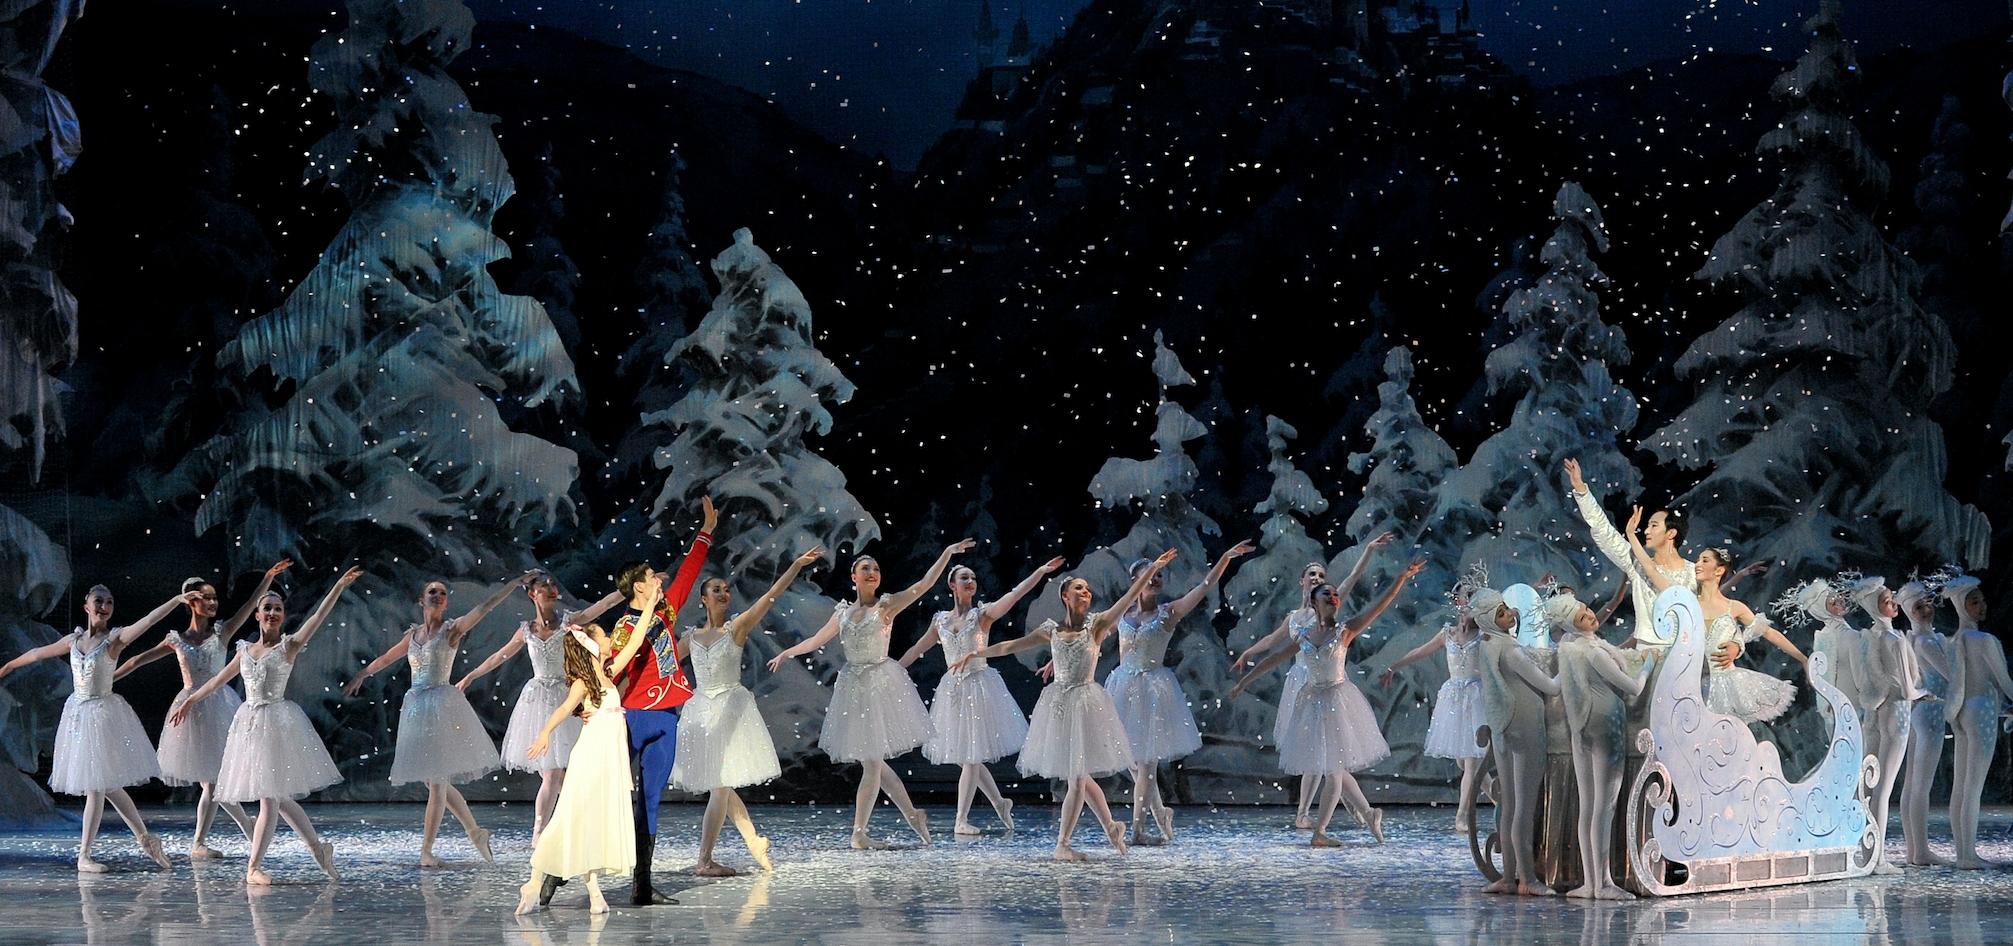
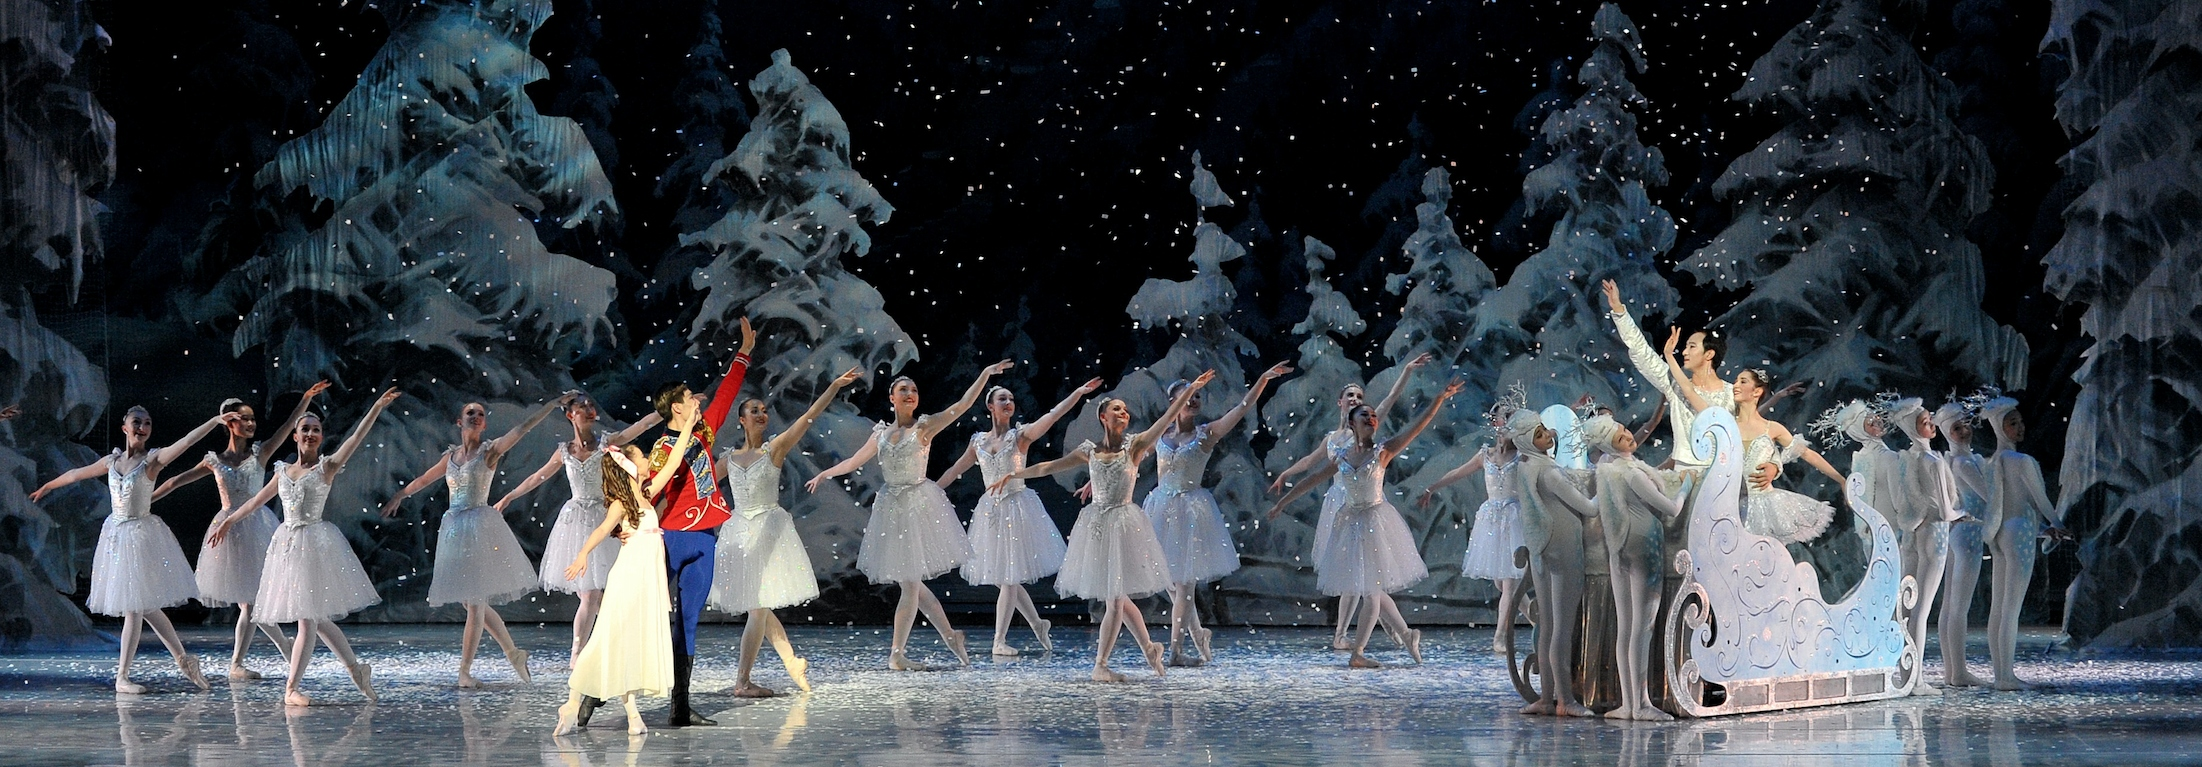
Editing dogadaji

diff --git a/gatsby-project/src/pages/index.js b/gatsby-project/src/pages/index.js
@@ -16,41 +16,35 @@ import NaslovnicaStyle from "../styles/index.module.css"
 const NaslovnicaPage = props => {
   const items = [
     {
-      src: props.data.carousel1.childImageSharp.fluid,
-      altText: "Prljavo kazalište",
-      caption: "Prljavo kazalište",
-      captionText: "Kultura",
-    },
-
-    {
       src: props.data.carousel2.childImageSharp.fluid,
       altText: "Kralj lavova",
       caption: "Kralj lavova",
-      captionText: "Film",
+      captionText: "Cinestar Rijeka 5. 2. 2020.",
     },
+    {
+      src: props.data.carousel1.childImageSharp.fluid,
+      altText: "Parni valjak",
+      caption: "Parni valjak",
+      captionText: "Pulska arena 17.01.2020.",
+    },
+
     {
       src: props.data.carousel3.childImageSharp.fluid,
       altText: "Hrvatska-Engleska",
       caption: "Hrvatska-Engleska",
-      captionText: "Sport",
+      captionText: "Poljud Split 17. 3. 2020.",
     },
     {
       src: props.data.carousel4.childImageSharp.fluid,
       altText: "Ero s onoga svijeta",
       caption: "Ero s onoga svijeta",
-      captionText: "Kultura",
+      captionText: "HNK Osijek 15. 2. 2020.",
     },
-    // {
-    //   src: props.data.carousel5.childImageSharp.fluid,
-    //   altText: "Bilo jednom u Hollywoodu",
-    //   caption: "Bilo jednom u Hollywoodu",
-    //   captionText: "Film",
-    // },
     {
-      src: props.data.carousel6.childImageSharp.fluid,
+      src: props.data.carousel5.childImageSharp.fluid,
       altText: "Orašar",
       caption: "Orašar",
-      captionText: "Kultura",
+      captionText: "HNK Rijeka 2. 2. 2020.",
     },
   ]
 
@@ -192,7 +186,7 @@ const NaslovnicaPage = props => {
                 Film
               </h4>
               <p className={NaslovnicaStyle.categoryDescription}>
-                Za sve filmoljupce, pogledajte našu ponudu najnovijih filmova
+                Za sve filmoljupce, pogledajte našu ponudu najnovijih filmova.
               </p>
               <Button
                 className={NaslovnicaStyle.categoryButton}
@@ -216,42 +210,35 @@ export const query = graphql`
   query {
     carousel1: file(relativePath: { eq: "carouselParniValjak.jpg" }) {
       childImageSharp {
-        fluid(maxWidth: 1200, maxHeight: 564) {
+        fluid(maxWidth: 1200, maxHeight: 418) {
           ...GatsbyImageSharpFluid_tracedSVG
         }
       }
     }
     carousel2: file(relativePath: { eq: "carouselKraljLavova.jpg" }) {
       childImageSharp {
-        fluid(maxWidth: 1281, maxHeight: 603) {
+        fluid(maxWidth: 1600, maxHeight: 557) {
           ...GatsbyImageSharpFluid_tracedSVG
         }
       }
     }
     carousel3: file(relativePath: { eq: "carouselFootball.jpg" }) {
       childImageSharp {
-        fluid(maxWidth: 1004, maxHeight: 472) {
+        fluid(maxWidth: 1922, maxHeight: 670) {
           ...GatsbyImageSharpFluid_tracedSVG
         }
       }
     }
     carousel4: file(relativePath: { eq: "carouselEro.jpg" }) {
       childImageSharp {
-        fluid(maxWidth: 1386, maxHeight: 651) {
+        fluid(maxWidth: 1400, maxHeight: 500) {
           ...GatsbyImageSharpFluid_tracedSVG
         }
       }
     }
-    carousel5: file(relativePath: { eq: "once1.jpg" }) {
+    carousel5: file(relativePath: { eq: "carouselOrasar.jpg" }) {
       childImageSharp {
-        fluid(maxWidth: 2000, maxHeight: 470) {
-          ...GatsbyImageSharpFluid_tracedSVG
-        }
-      }
-    }
-    carousel6: file(relativePath: { eq: "carouselOrasar.jpg" }) {
-      childImageSharp {
-        fluid(maxWidth: 2013, maxHeight: 946) {
+        fluid(maxWidth: 2202, maxHeight: 767) {
           ...GatsbyImageSharpFluid_tracedSVG
         }
       }

diff --git a/gatsby-project/src/components/componentsStyles/header.module.css b/gatsby-project/src/components/componentsStyles/header.module.css
@@ -7,7 +7,9 @@
   background-color: var(--secondary-color);
   /* box-shadow: 0 0 20px 7px #e7f3f9; */
 
-  box-shadow: 0 0 20px 4px #eef6fa;
+  /* box-shadow: 0 0 20px 4px #eef6fa; ista boja kao header */
+
+  box-shadow: 0 0 10px 2px #92c5df;
   /* box-shadow: 0 0 50px 17px #e7f3f9; */
   /* background-color: #f1f0f6; */
   /* border-bottom: 1px solid #ced4da; */
@@ -35,8 +37,9 @@
   font-size: 2vw;
   /* letter-spacing: 1.1px; */
   color: var(--primary-color);
-  text-shadow: -1px 0 lightgrey, 0 1px lightgrey, 1px 0 lightgrey,
-    0 -1px lightgrey;
+  text-shadow: -0.2px 0 lightgrey, 0 0.2px lightgrey, 0.2px 0 lightgrey,
+    0 -0.2px lightgrey;
+  font-size: 2.25vw;
 }
 
 .navbarName {
@@ -75,6 +78,24 @@
   /* font-size: 0.93em; */
   /* margin-top: 1em; */
   /* text-align: center; */
+  /* background-color: var(--primary-color); */
+  color: var(--primary-color);
+  border-color: var(--primary-color);
+}
+
+.button:hover {
+  background-color: var(--primary-color);
+  border-color: var(--primary-color);
+  color: white;
+}
+
+.button:focus {
+  box-shadow: none;
+}
+
+.button .active {
+  color: var(--primary-color);
+  border-color: var(--primary-color);
 }
 
 .button2 ~ .btn-outline-info {
@@ -93,7 +114,8 @@
 .navbarName__active {
   /* text-decoration: underline; */
   color: var(--primary-color);
-  font-weight: 700;
+  font-weight: 600;
+  /* text-shadow: -1px 0 #c7e1ee, 0 1px #c7e1ed, 1px 0 #c7e1ee, 0 -1px #c7e1ee; */
 }
 
 .navbarName:hover {

diff --git a/gatsby-project/src/styles/dogadaji.module.css b/gatsby-project/src/styles/dogadaji.module.css
@@ -73,7 +73,9 @@
 .card {
   background-color: var(--secondary-color);
   border-radius: 4px;
-  box-shadow: 0px 2px 15px 2px rgba(0, 0, 0, 0.08); /*promijeniti*/
+  /* box-shadow: 0px 2px 15px 2px rgba(0, 0, 0, 0.08); promijeniti */
+  box-shadow: 0px 2px 15px 2px rgba(0, 0, 0, 0.16);
+
   display: flex;
   flex-direction: column;
   height: 367px;
@@ -86,14 +88,16 @@
 }
 
 .card:hover {
-  box-shadow: 0px 2px 15px 2px rgba(0, 0, 0, 0.25);
+  box-shadow: 0px 2px 15px 2px rgba(0, 0, 0, 0.32);
   transition: all 0.3s;
 }
 
 .cardImage {
   border-radius: 4px;
-  box-shadow: 0 2px 4px 0 rgba(0, 0, 0, 0.04),
-    0 2px 20px 0 rgba(13, 34, 30, 0.25); /*promijeniti*/
+  /* box-shadow: 0 2px 4px 0 rgba(0, 0, 0, 0.04),
+    0 2px 20px 0 rgba(13, 34, 30, 0.25); promijeniti */
+  box-shadow: 0 2px 4px 0 rgba(0, 0, 0, 0.15),
+    0 2px 20px 0 rgba(13, 34, 30, 0.3);
   display: block; /*ovo*/
   height: 180px;
   left: 50%;

diff --git a/gatsby-project/src/pages/dogadajFilm.js b/gatsby-project/src/pages/dogadajFilm.js
@@ -123,12 +123,12 @@ const DogadajiPage = props => {
                     </div>
                   </div>
                   <div className={DogadajiStyle.dateLocation}>
-                    <p className={DogadajiStyle.location}>Pulska arena</p>
-                    <p className={DogadajiStyle.date}>17.01.2020. u 20:00</p>
+                    <p className={DogadajiStyle.location}>{item.place}</p>
+                    <p className={DogadajiStyle.date}>{item.date}</p>
                   </div>
                 </div>
                 <div className={DogadajiStyle.priceButton}>
-                  <p className={DogadajiStyle.price}>80,00 kn</p>
+                  <p className={DogadajiStyle.price}>{item.price}</p>
                   <Button
                     className={DogadajiStyle.button}
                     outline

diff --git a/gatsby-project/src/pages/dogadajKultura.js b/gatsby-project/src/pages/dogadajKultura.js
@@ -123,12 +123,12 @@ const DogadajiPage = props => {
                     </div>
                   </div>
                   <div className={DogadajiStyle.dateLocation}>
-                    <p className={DogadajiStyle.location}>Pulska arena</p>
-                    <p className={DogadajiStyle.date}>17.01.2020. u 20:00</p>
+                    <p className={DogadajiStyle.location}>{item.place}</p>
+                    <p className={DogadajiStyle.date}>{item.date}</p>
                   </div>
                 </div>
                 <div className={DogadajiStyle.priceButton}>
-                  <p className={DogadajiStyle.price}>80,00 kn</p>
+                  <p className={DogadajiStyle.price}>{item.price}</p>
                   <Button
                     className={DogadajiStyle.button}
                     outline

diff --git a/gatsby-project/src/pages/dogadajSport.js b/gatsby-project/src/pages/dogadajSport.js
@@ -124,12 +124,12 @@ const DogadajiPage = props => {
                     </div>
                   </div>
                   <div className={DogadajiStyle.dateLocation}>
-                    <p className={DogadajiStyle.location}>Pulska arena</p>
-                    <p className={DogadajiStyle.date}>17.01.2020. u 20:00</p>
+                    <p className={DogadajiStyle.location}>{item.place}</p>
+                    <p className={DogadajiStyle.date}>{item.date}</p>
                   </div>
                 </div>
                 <div className={DogadajiStyle.priceButton}>
-                  <p className={DogadajiStyle.price}>80,00 kn</p>
+                  <p className={DogadajiStyle.price}>{item.price}</p>
                   <Button
                     className={DogadajiStyle.button}
                     outline

diff --git a/gatsby-project/src/pages/dogadaji.js b/gatsby-project/src/pages/dogadaji.js
@@ -123,12 +123,12 @@ const DogadajiPage = props => {
                     </div>
                   </div>
                   <div className={DogadajiStyle.dateLocation}>
-                    <p className={DogadajiStyle.location}>Pulska arena</p>
-                    <p className={DogadajiStyle.date}>17.01.2020. u 20:00</p>
+                    <p className={DogadajiStyle.location}>{item.place}</p>
+                    <p className={DogadajiStyle.date}>{item.date}</p>
                   </div>
                 </div>
                 <div className={DogadajiStyle.priceButton}>
-                  <p className={DogadajiStyle.price}>80,00 kn</p>
+                  <p className={DogadajiStyle.price}>{item.price}</p>
                   <Button
                     className={DogadajiStyle.button}
                     outline

diff --git a/gatsby-project/src/components/header.js b/gatsby-project/src/components/header.js
@@ -1,7 +1,7 @@
 import React from "react"
 import { Navbar, NavbarBrand, InputGroup, Input, Button } from "reactstrap"
 import "bootstrap/dist/css/bootstrap.min.css"
-import logo from "../images/logo.png"
+import logo from "../images/logo1.png"
 import HeaderStyle from "../components/componentsStyles/header.module.css"
 import NavLink from "./links"
 
@@ -48,7 +48,12 @@ const Header = props => {
         <InputGroup className={HeaderStyle.lozinka} size="sm">
           <Input placeholder="lozinka" />
         </InputGroup>
-        <Button className={HeaderStyle.button} outline color="info">
+        <Button
+          className={HeaderStyle.button}
+          outline
+          color="warning"
+          outline="false"
+        >
           PRIJAVI ME
         </Button>{" "}
       </div>

diff --git a/gatsby-project/src/styles/style.css b/gatsby-project/src/styles/style.css
@@ -110,11 +110,12 @@ Extra (xl) large devices (large desktops, 1200px and up)
 .carousel-caption p {
   position: relative;
   z-index: 1;
-  text-transform: uppercase;
+  /* text-transform: uppercase; */
   padding-bottom: 0.3rem;
   letter-spacing: 1px;
   font-size: 18px;
   display: block !important;
+  font-weight: 600;
 }
 
 .d-block p {
@@ -231,6 +232,12 @@ button.swal2-confirm.swal2-styled:focus {
 
 :root {
   /* --primary-color: #ffff33; */
-  --primary-color: #ffe2ae;
+
+  /* --primary-color: #ffe2ae; */
+  --primary-color: #ffd07b;
   --secondary-color: #eef6fa;
 }
+
+/* body{
+  font-family: "Raleway",Helvetica,Arial,sans-serif;
+} */
